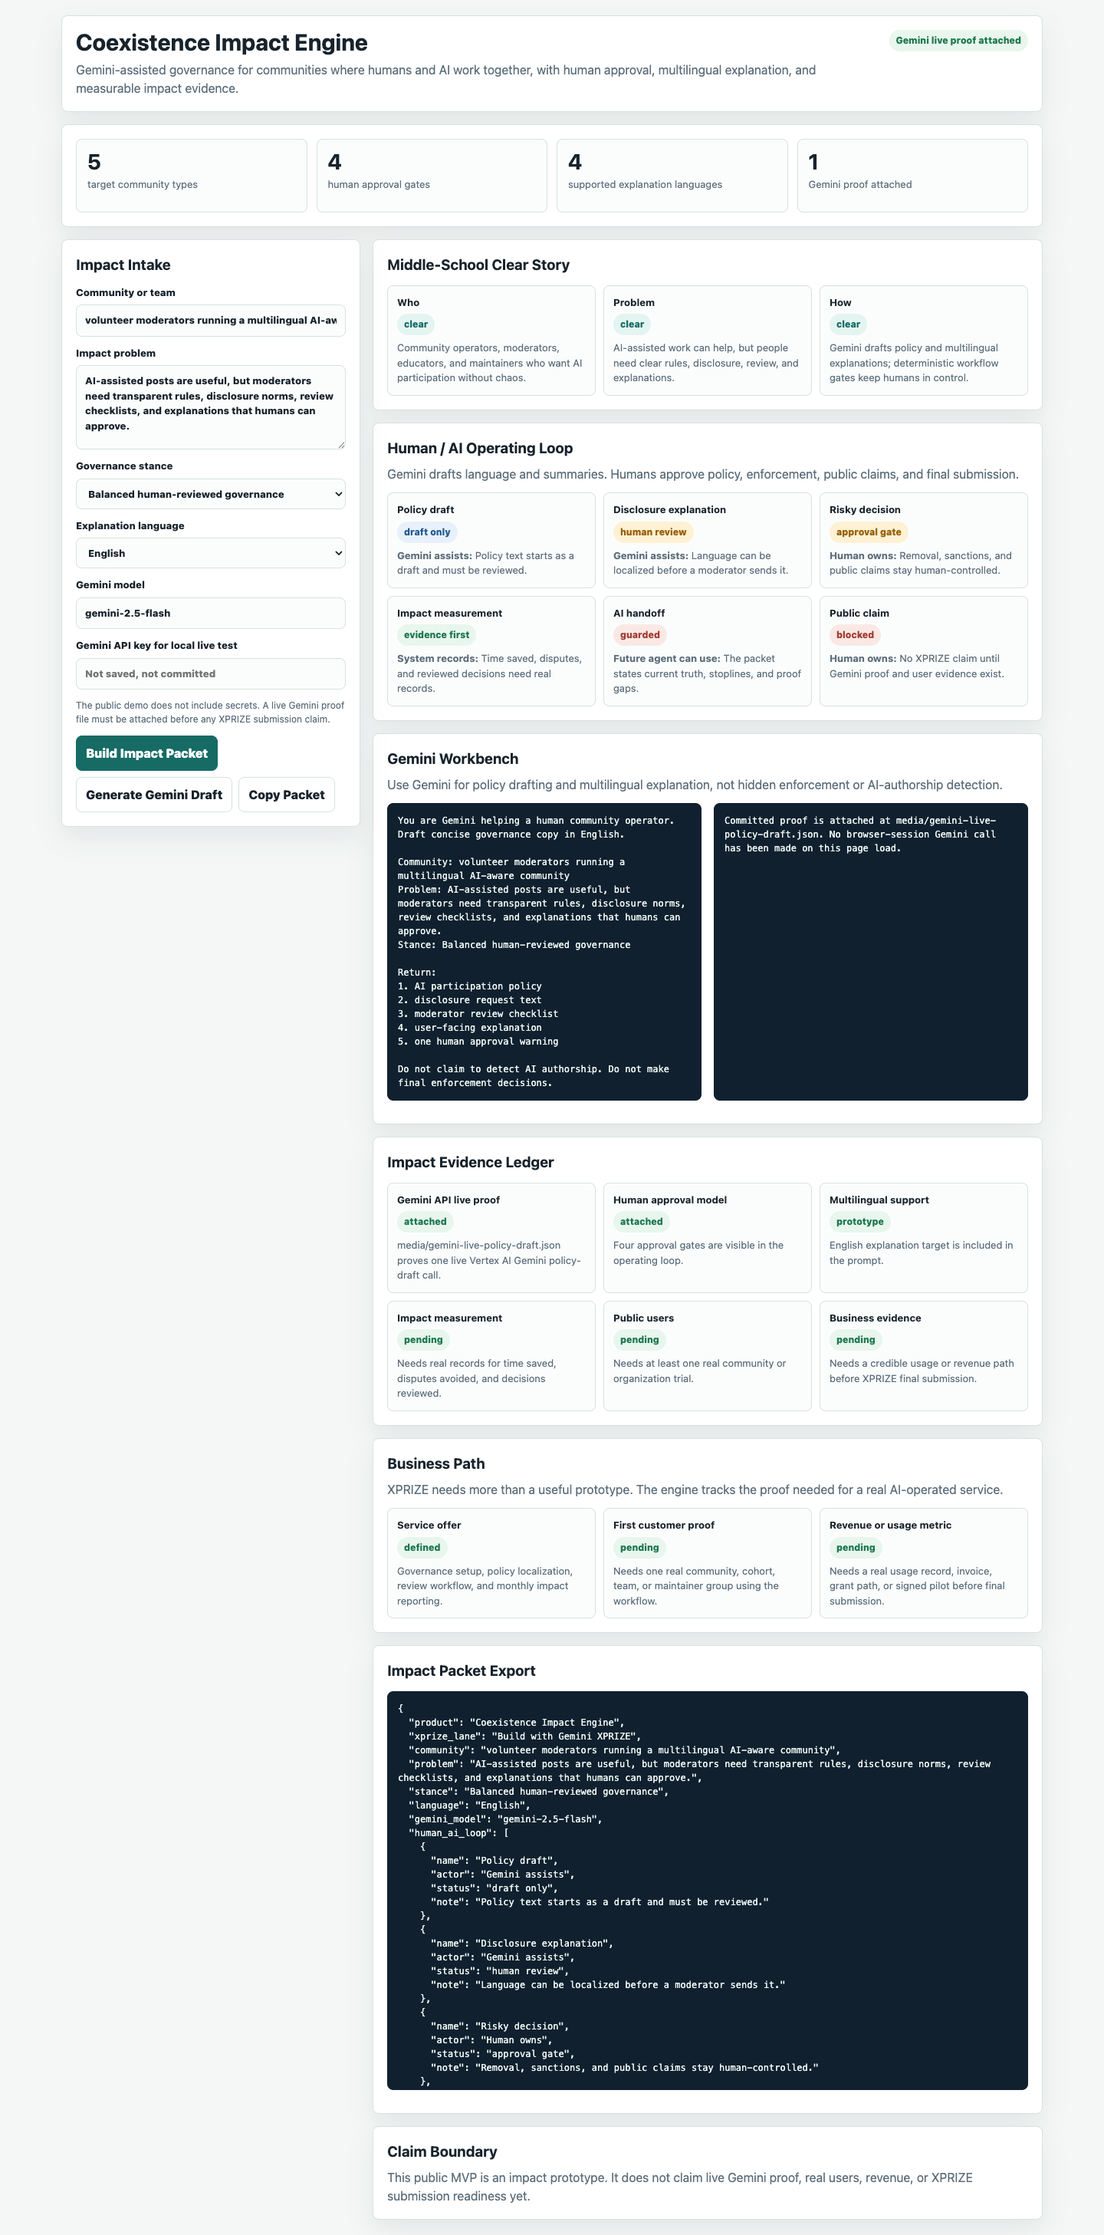
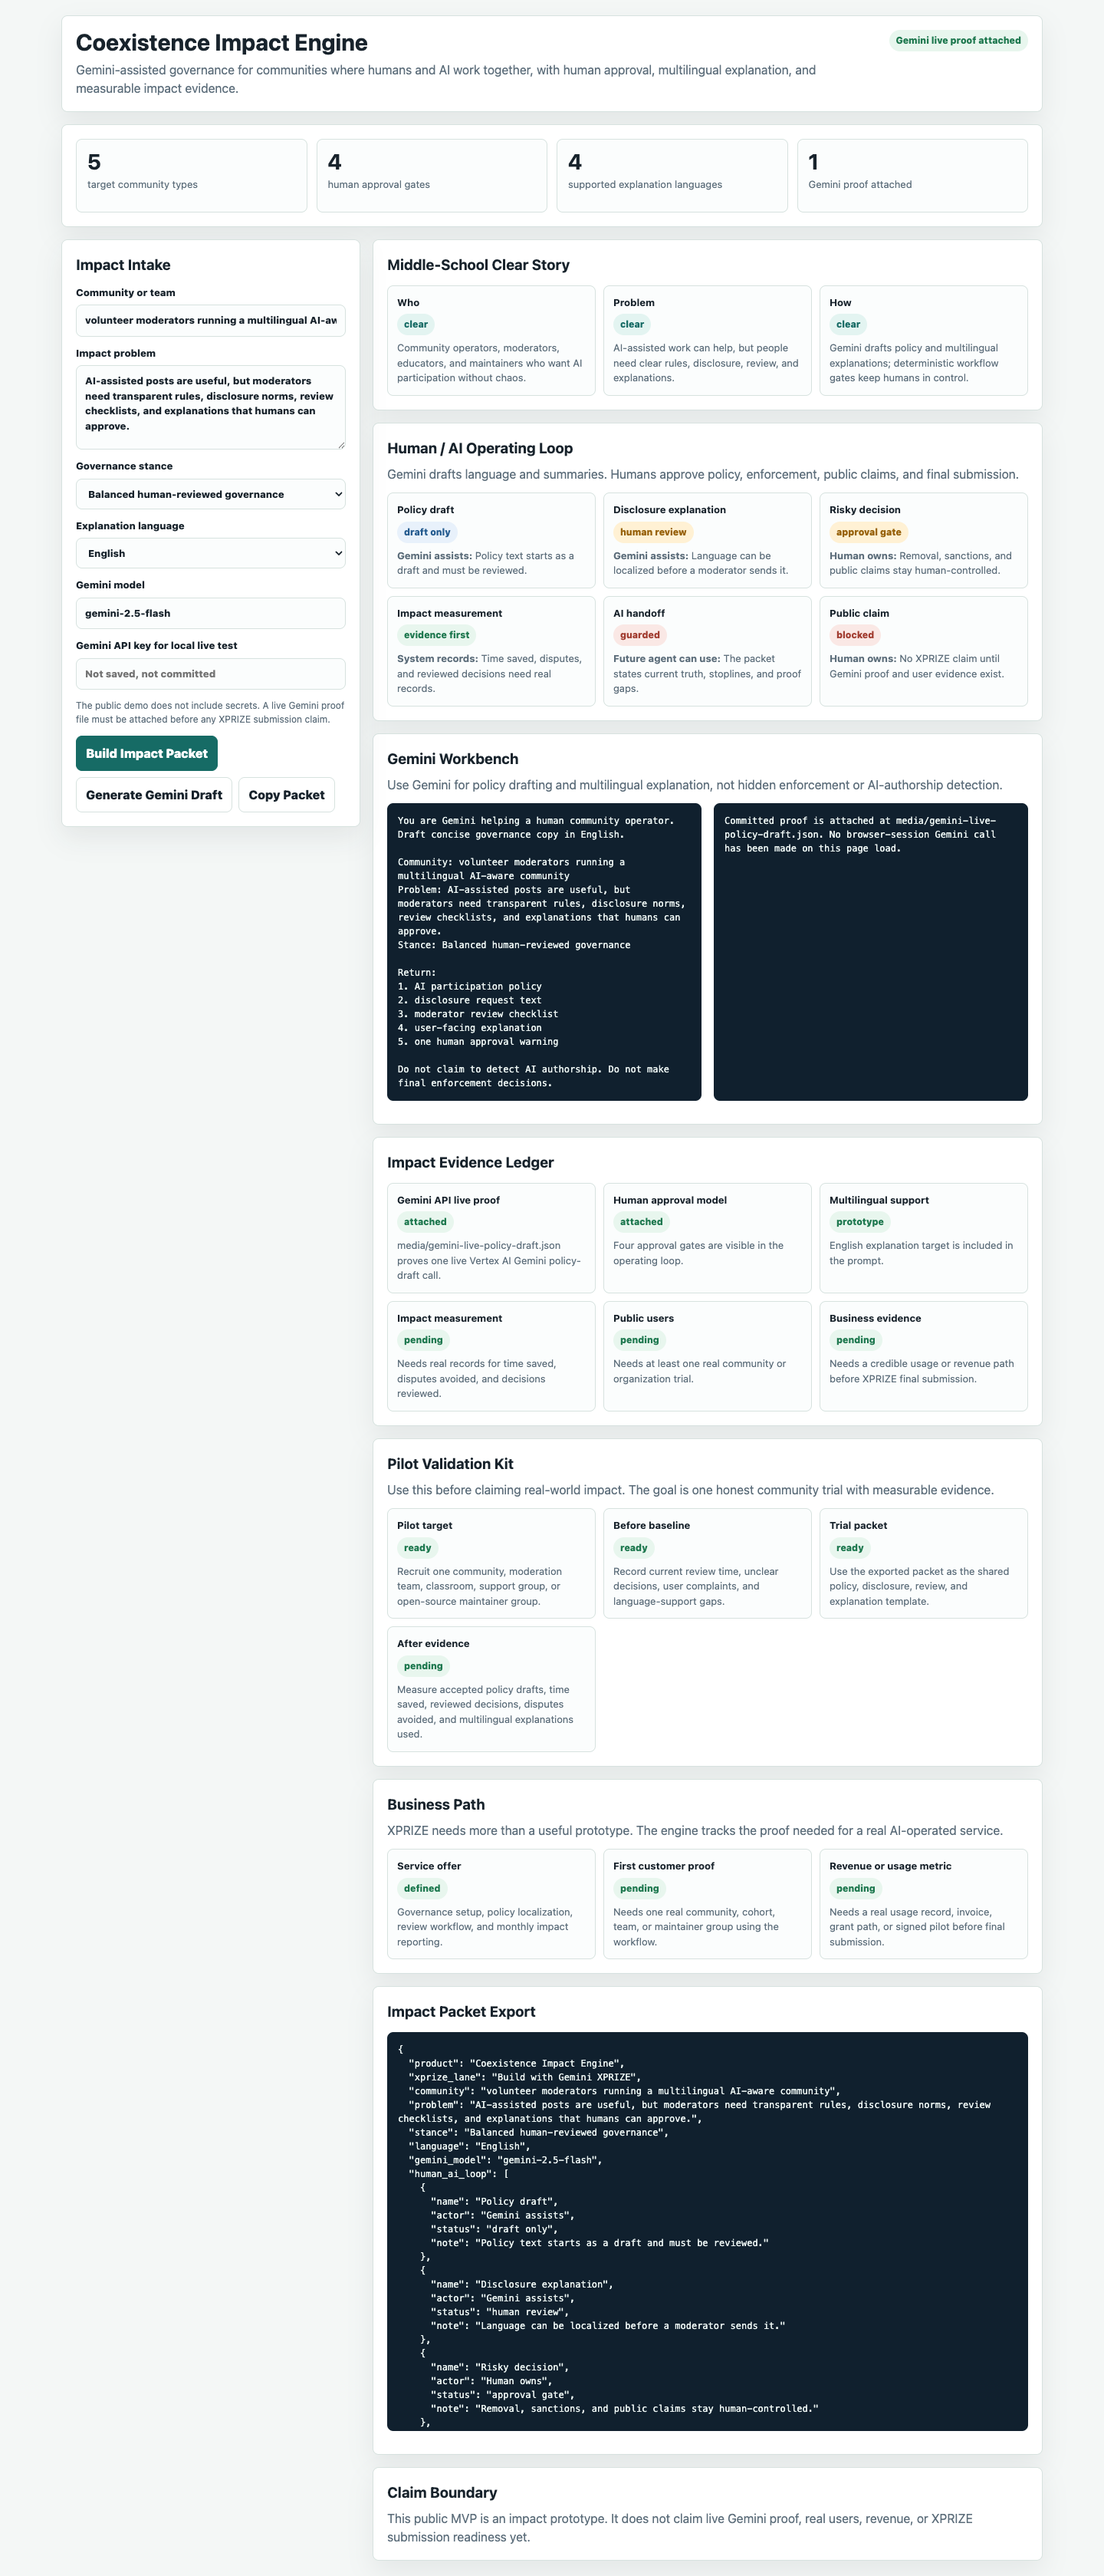
Add pilot validation kit

Changed region(s): [[0.0625, 0.0, 0.9375, 0.9993], [0.2188, 0.3435, 0.2812, 0.3747], [0.6562, 0.8432, 0.6875, 0.8744]]

diff --git a/index.html b/index.html
@@ -313,6 +313,12 @@
         </section>
 
         <section>
+          <h2>Pilot Validation Kit</h2>
+          <p>Use this before claiming real-world impact. The goal is one honest community trial with measurable evidence.</p>
+          <div class="card-grid" id="pilotGrid"></div>
+        </section>
+
+        <section>
           <h2>Business Path</h2>
           <p>XPRIZE needs more than a useful prototype. The engine tracks the proof needed for a real AI-operated service.</p>
           <div class="card-grid" id="businessGrid"></div>
@@ -355,6 +361,13 @@
       { name: 'Service offer', status: 'defined', note: 'Governance setup, policy localization, review workflow, and monthly impact reporting.' },
       { name: 'First customer proof', status: 'pending', note: 'Needs one real community, cohort, team, or maintainer group using the workflow.' },
       { name: 'Revenue or usage metric', status: 'pending', note: 'Needs a real usage record, invoice, grant path, or signed pilot before final submission.' }
+    ];
+
+    const pilot = [
+      { name: 'Pilot target', status: 'ready', note: 'Recruit one community, moderation team, classroom, support group, or open-source maintainer group.' },
+      { name: 'Before baseline', status: 'ready', note: 'Record current review time, unclear decisions, user complaints, and language-support gaps.' },
+      { name: 'Trial packet', status: 'ready', note: 'Use the exported packet as the shared policy, disclosure, review, and explanation template.' },
+      { name: 'After evidence', status: 'pending', note: 'Measure accepted policy drafts, time saved, reviewed decisions, disputes avoided, and multilingual explanations used.' }
     ];
 
     function sentence(value) {
@@ -410,6 +423,7 @@ Do not claim to detect AI authorship. Do not make final enforcement decisions.`;
         language,
         gemini_model: model,
         human_ai_loop: loop,
+        pilot_validation_kit: pilot,
         business_path: business,
         evidence_ledger: evidence,
         gemini_prompt: null,
@@ -430,6 +444,13 @@ Do not claim to detect AI authorship. Do not make final enforcement decisions.`;
         </div>
       `).join('');
       $('evidenceGrid').innerHTML = evidence.map((item) => `
+        <div class="card">
+          <b>${item.name}</b>
+          <span class="badge ${statusClass(item.status)}">${item.status}</span>
+          <p>${item.note}</p>
+        </div>
+      `).join('');
+      $('pilotGrid').innerHTML = pilot.map((item) => `
         <div class="card">
           <b>${item.name}</b>
           <span class="badge ${statusClass(item.status)}">${item.status}</span>

diff --git a/docs/PILOT_VALIDATION_PLAYBOOK.md b/docs/PILOT_VALIDATION_PLAYBOOK.md
@@ -1,0 +1,52 @@
+# Pilot Validation Playbook
+
+This project should not claim real-world impact until one honest trial produces evidence.
+
+## Goal
+
+Run a small community or team pilot where Coexistence Impact Engine helps people create AI participation rules, disclosure text, review criteria, and multilingual explanations.
+
+## Good First Pilot Targets
+
+- subreddit or forum moderators
+- classroom or study community
+- open-source maintainer group
+- multilingual support community
+- small organization using AI-assisted work internally
+
+## Before Baseline
+
+Record the current state before using the tool:
+
+- average time to write or revise AI participation rules
+- number of unclear moderation or governance decisions
+- number of repeated explanation messages
+- languages that require support
+- user questions or disputes caused by unclear AI policy
+
+## Trial Steps
+
+1. Fill the Impact Intake in the public app.
+2. Build the Impact Packet.
+3. Review the Gemini prompt and policy draft route.
+4. Human operator approves or edits the policy.
+5. Use the packet for a small batch of real decisions or explanations.
+6. Record what changed after the pilot.
+
+## After Evidence
+
+Useful evidence includes:
+
+- policy drafts accepted by the team
+- minutes saved per decision or explanation
+- reviewed decisions using the checklist
+- disputes avoided or resolved
+- multilingual explanations sent
+- qualitative feedback from the operator
+
+## Stoplines
+
+- Do not claim broad impact from a single anecdote.
+- Do not include private user data in public proof.
+- Do not claim the tool detects AI authorship.
+- Do not claim final XPRIZE readiness until impact evidence and business evidence exist.

diff --git a/README.md b/README.md
@@ -32,6 +32,7 @@ https://daideguchi.github.io/coexistence-impact-engine/
 - builds a human/AI operating loop
 - drafts a Gemini prompt for policy, disclosure, review checklist, and user explanation
 - supports browser-local Gemini BYOK testing without saving secrets
+- creates a pilot validation kit for the first real community trial
 - exports an impact packet with evidence ledger and claim boundaries
 - keeps live Gemini proof, user proof, and business evidence blocked until real evidence exists
 
@@ -93,7 +94,7 @@ Expected current state:
 
 ```text
 impact_verify_ok
-cards=18
+cards=22
 coexistence_impact_no_secrets_ok
 coexistence_impact_gemini_boundary_ok
 gemini_live_proof_file_exists=True
@@ -109,5 +110,6 @@ This is a public impact prototype, not a final XPRIZE submission. It claims one 
 - [Submission package](SUBMISSION_PACKAGE.md)
 - [Architecture](ARCHITECTURE.md)
 - [XPRIZE Gemini proof plan](docs/GEMINI_PROOF_PLAN.md)
+- [Pilot validation playbook](docs/PILOT_VALIDATION_PLAYBOOK.md)
 - [Devpost draft](submission/devpost-draft.md)
 - [Build journey](submission/build-journey.md)

diff --git a/submission/devpost-draft.md b/submission/devpost-draft.md
@@ -18,12 +18,13 @@ AI participation is becoming normal. The hard part is no longer simply asking wh
 - builds a human/AI operating loop
 - drafts a Gemini prompt for policy and multilingual explanation
 - keeps risky actions behind human approval gates
+- creates a pilot validation kit for real-world impact testing
 - exports an impact packet with evidence and claim boundaries
 - supports live Gemini BYOK testing without committed secrets
 
 ## Built With
 
-HTML, CSS, JavaScript, Gemini API BYOK call path, Vertex AI `generateContent` smoke proof, Playwright verification, Python boundary checks, GitHub Pages target.
+HTML, CSS, JavaScript, Gemini API BYOK call path, Vertex AI `generateContent` smoke proof, pilot validation playbook, Playwright verification, Python boundary checks, GitHub Pages target.
 
 ## Links
 

diff --git a/SUBMISSION_PACKAGE.md b/SUBMISSION_PACKAGE.md
@@ -21,6 +21,7 @@ Coexistence Impact Engine creates a reviewable impact packet:
 - Gemini prompt for policy and multilingual explanation
 - human/AI operating loop
 - approval gates
+- pilot validation kit
 - impact evidence ledger
 - next live proof step
 - claim boundary
@@ -49,6 +50,12 @@ Screenshots:
 ```text
 media/coexistence-impact-engine-full.png
 media/coexistence-impact-engine-pages-full.png
+```
+
+Pilot validation playbook:
+
+```text
+docs/PILOT_VALIDATION_PLAYBOOK.md
 ```
 
 Demo video draft:

diff --git a/submission/build-journey.md b/submission/build-journey.md
@@ -11,6 +11,7 @@ Coexistence Console proved the governance idea inside Reddit moderation. The XPR
 - Live Vertex AI Gemini proof attached for one policy-draft request.
 - Human/AI operating loop.
 - Impact evidence ledger.
+- Pilot validation kit.
 - Claim-boundary verifiers.
 - Natural English demo video draft.
 
